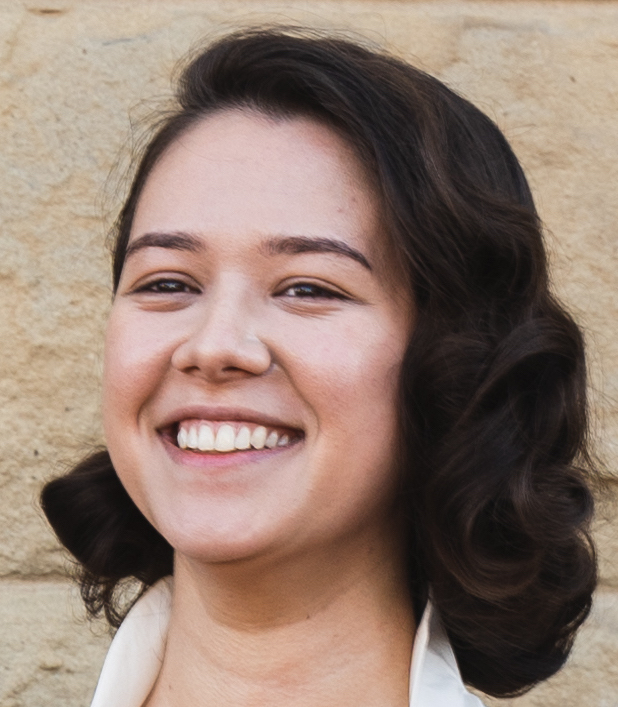
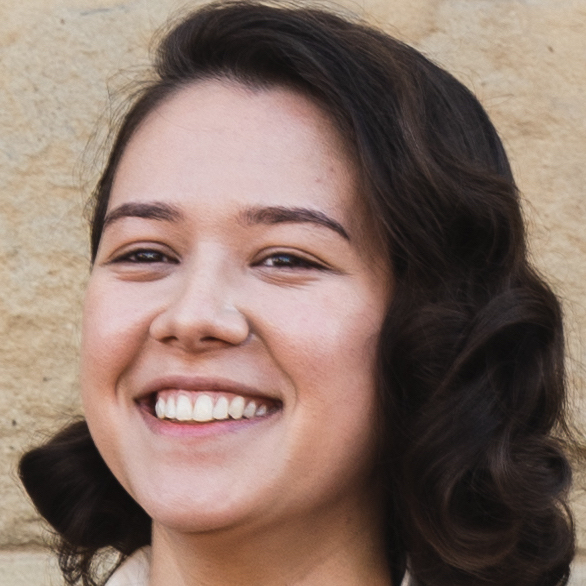
Fix new member photos

diff --git a/home.html b/home.html
@@ -29,7 +29,7 @@
                 <li class="nav-item"><a id="members" href="#members">members</a></li>
 
                 <!---->
-        <li class="nav-item"><a id="auditions" href="#auditions">auditions</a></li> -->
+       <!-- <li class="nav-item"><a id="auditions" href="#auditions">auditions</a></li> -->
 
                 <li class="nav-item"><a id="contact" href="#contact">contact</a></li>
                 <li class="nav-item"><a id="facebook" href="https://www.facebook.com/stanfordswingtime?fref=ts" target=\ "_blank\">
@@ -220,12 +220,12 @@
                 <h1 name="members"><span class="line"></span>MEMBERS<span class="line"></span></h1>
                 <div class="row d-flex justify-content-center" id="members-list">
                     <div class="member">
-                        <img src="/images/members/Annie.jpeg"></img>
+                        <img src="/images/members/Annie.png"></img>
                         <h5>Annie Cheng</h5>
                         <h6>Member</h6>
                     </div>     
                     <div class="member">
-                        <img src="/images/members/Kylan.jpeg"></img>
+                        <img src="/images/members/Kylan.png"></img>
                         <h5>Kylan Denney</h5>
                         <h6>Member</h6>
                     </div>
@@ -245,12 +245,12 @@
                         <h6>Member</h6>
                     </div>
                     <div class="member">
-                        <img src="/images/members/Ella.jpeg"></img>
+                        <img src="/images/members/Ella.png"></img>
                         <h5>Ella Wang</h5>
                         <h6>Member</h6>
                     </div>
                     <div class="member">
-                        <img src="/images/members/Alaina.jpeg"></img>
+                        <img src="/images/members/Alaina.png"></img>
                         <h5>Alaina Zhang</h5>
                         <h6>Member</h6>
                     </div>
